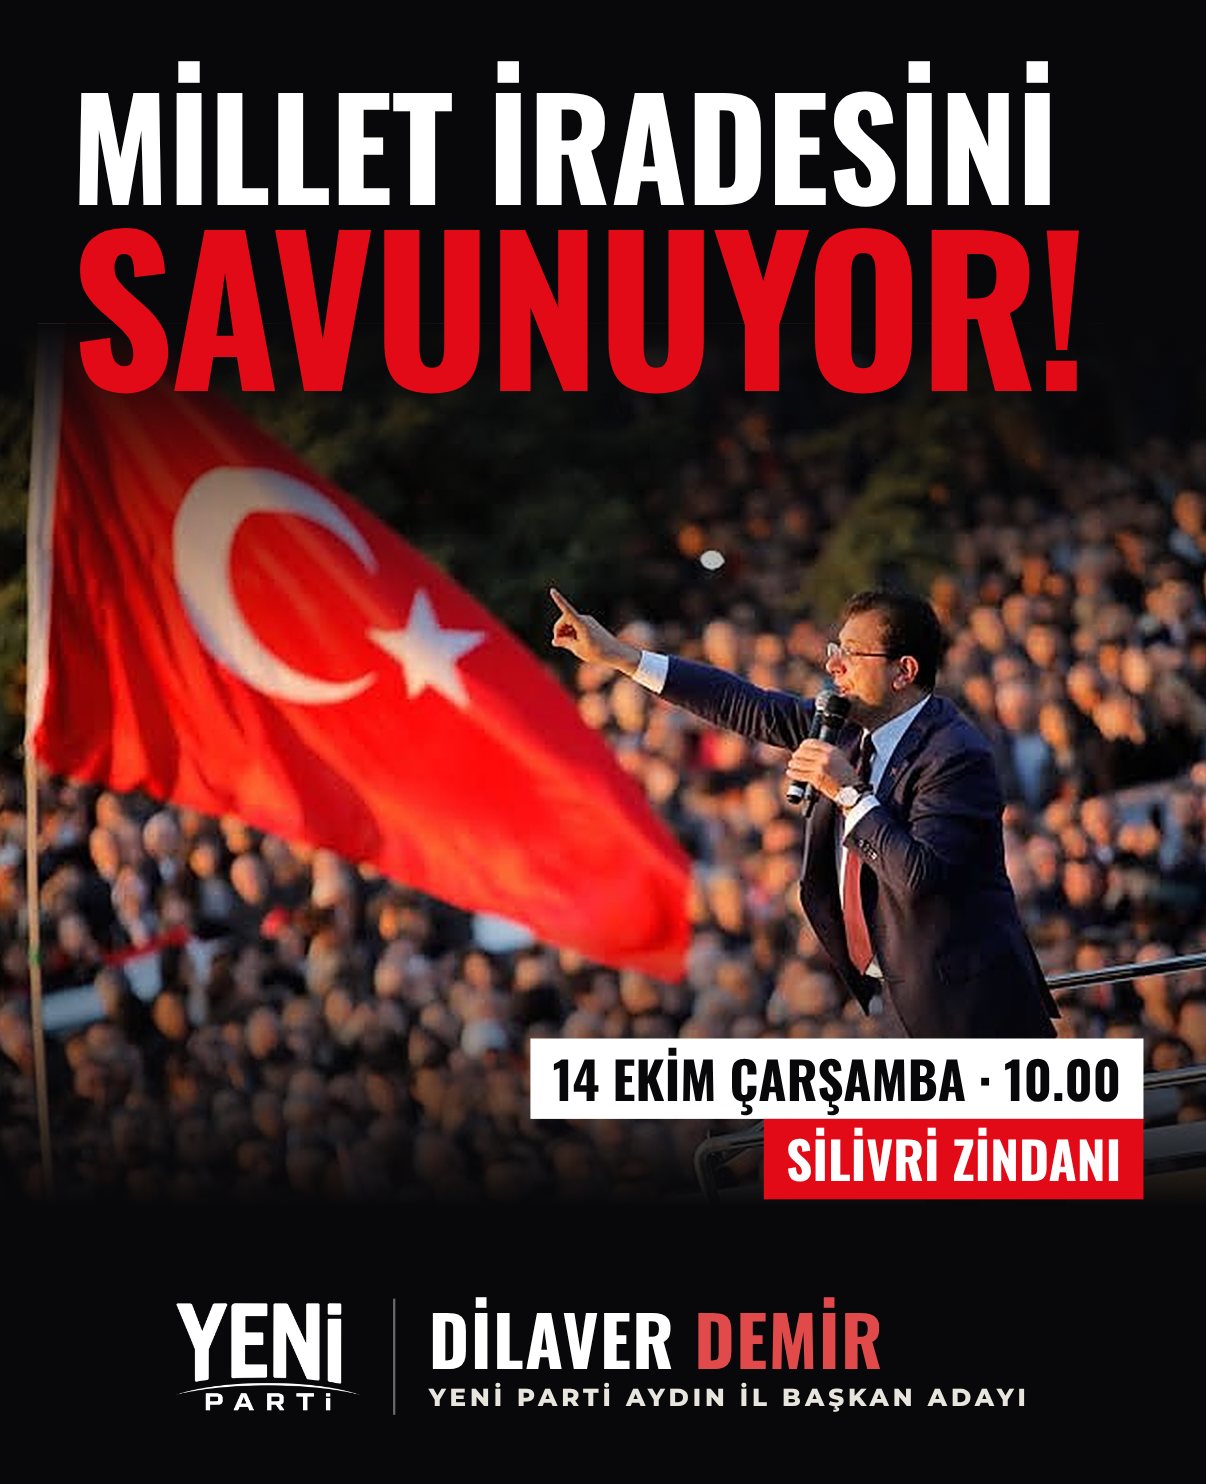
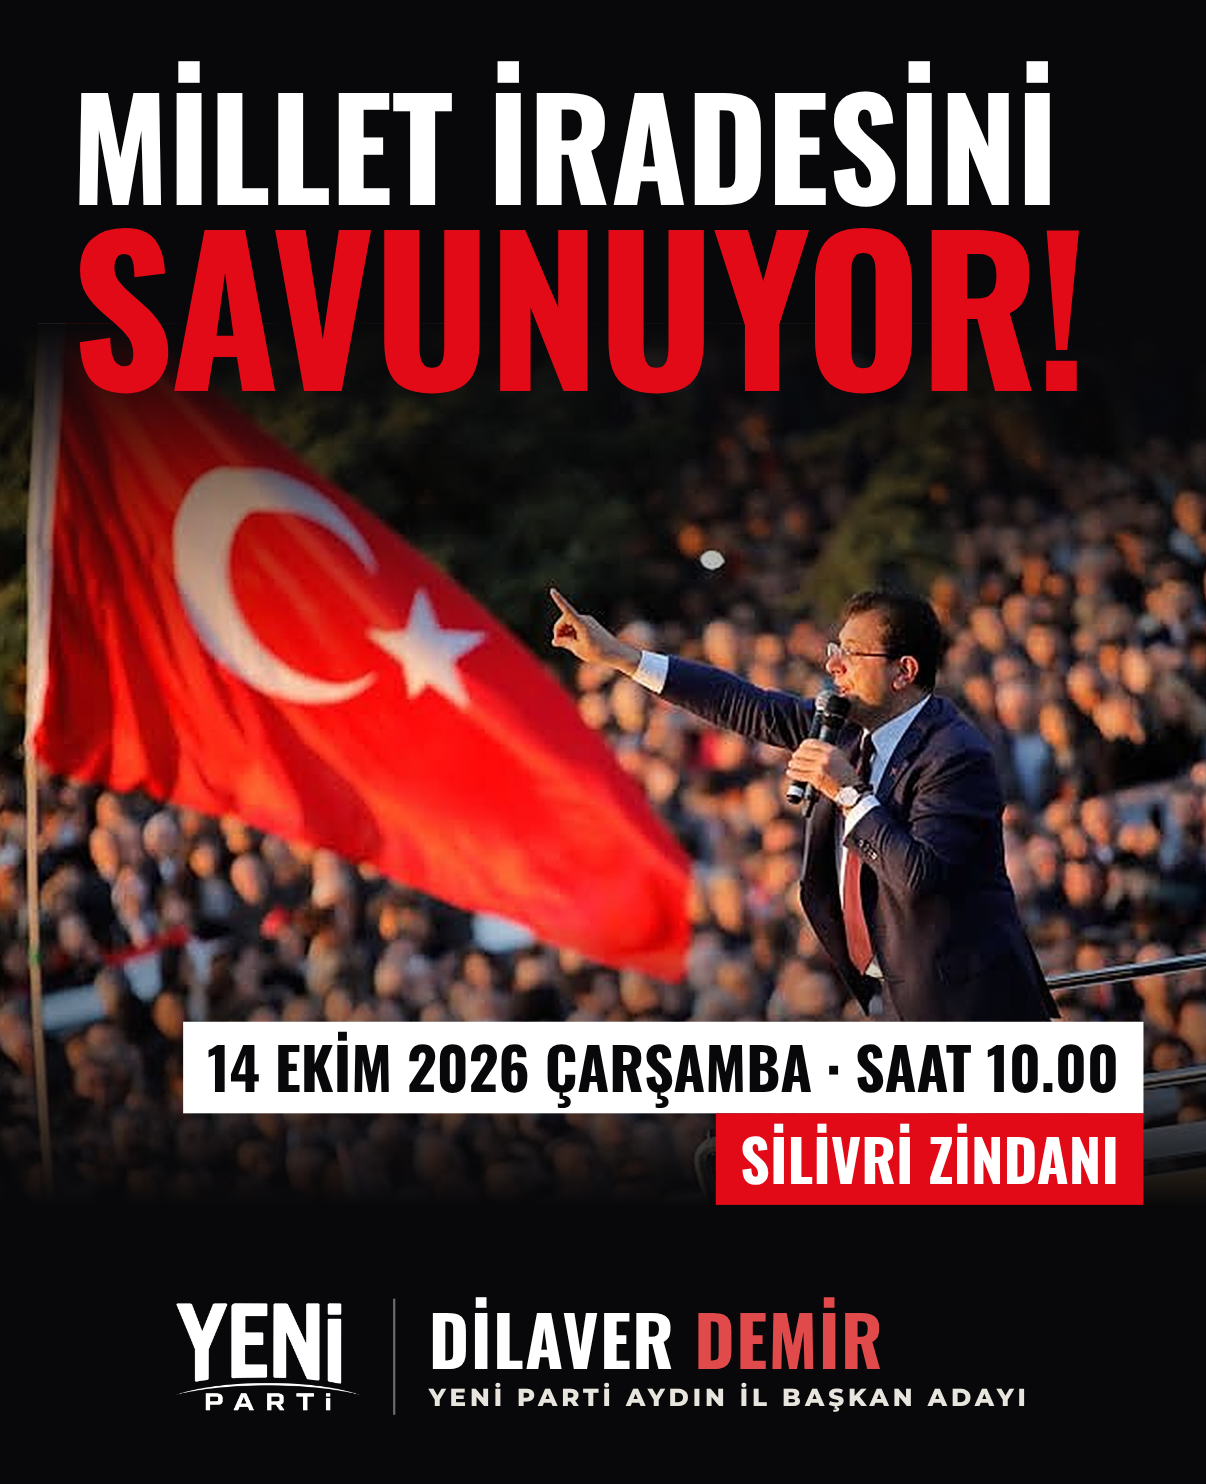
Millet iradesi postu: tarih yıl ve saatle netleştirildi
Claude-Session: https://claude.ai/code/session_01SatttGbgBLoCnk9KGLypWv

Changed region(s): [[0.1534, 0.6819, 0.9511, 0.8369]]

diff --git a/tasarim/kisisel/millet-iradesi/post.html b/tasarim/kisisel/millet-iradesi/post.html
@@ -11,8 +11,8 @@ body{position:relative;background:var(--gece);color:#fff}
 .baslik{position:absolute;left:64px;top:70px}
 .b1{font:124px/.95 Afis;letter-spacing:-.005em;text-transform:uppercase}
 .b2{font:178px/.92 Afis;color:var(--kirmizi);text-transform:uppercase;letter-spacing:-.01em}
-.bilgi{position:absolute;right:56px;top:930px;text-align:right}
-.bilgi div{display:inline-block;font:46px/1 Afis;padding:12px 20px 14px;text-transform:uppercase}
+.bilgi{position:absolute;right:56px;top:915px;text-align:right}
+.bilgi div{display:inline-block;font:52px/1 Afis;padding:14px 22px 16px;text-transform:uppercase}
 .tarih{background:#fff;color:var(--gece)}
 .yer{background:var(--kirmizi);color:#fff}
 .imza{position:absolute;left:0;right:0;bottom:62px;display:flex;justify-content:center;align-items:center;gap:30px}
@@ -25,7 +25,7 @@ body{position:relative;background:var(--gece);color:#fff}
 <body>
 <div class="foto"></div>
 <div class="baslik"><div class="b1">Millet iradesini</div><div class="b2">savunuyor!</div></div>
-<div class="bilgi"><div class="tarih">14 Ekim Çarşamba · 10.00</div><br><div class="yer">Silivri Zindanı</div></div>
+<div class="bilgi"><div class="tarih">14 Ekim 2026 Çarşamba · Saat 10.00</div><br><div class="yer">Silivri Zindanı</div></div>
 <div class="imza"><img src="yeni-parti-beyaz.png"><span class="ayrac"></span>
   <div><div class="ad">DİLAVER <em>DEMİR</em></div><div class="gorev">YENİ PARTİ AYDIN İL BAŞKAN ADAYI</div></div></div>
 </body></html>
